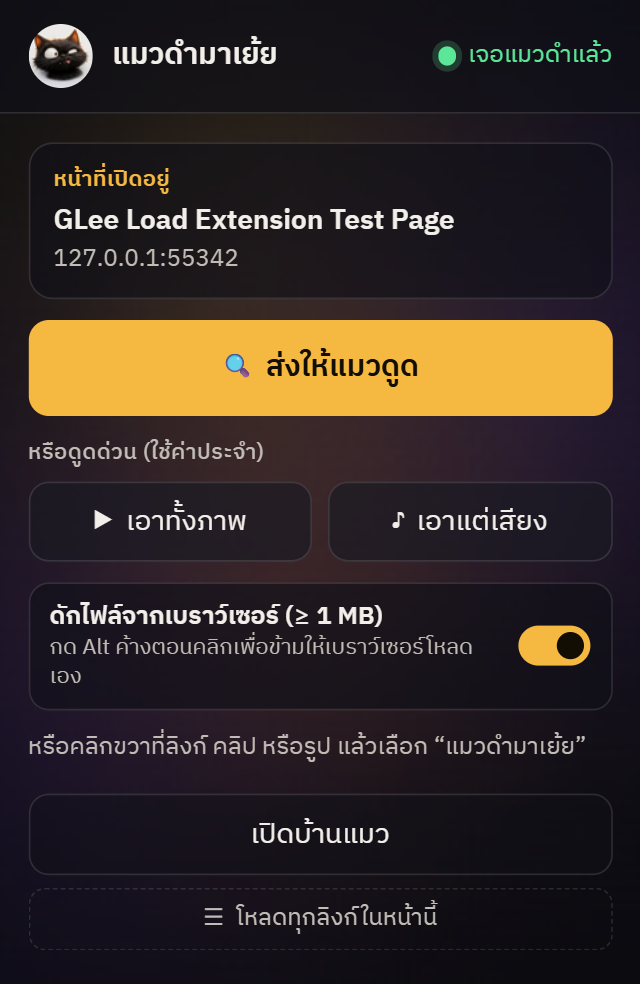
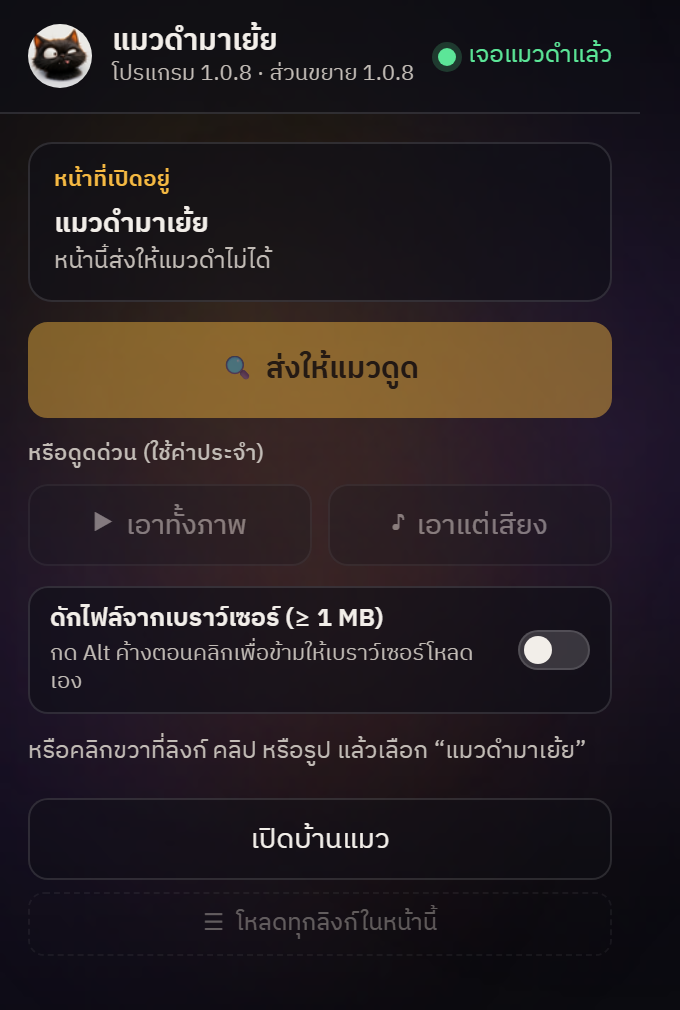
chore: publish GLee Load App 1.0.8 / Extension 1.0.8 update manifest & docs

diff --git a/README.md b/README.md
@@ -21,18 +21,18 @@
       <img src="images/icon-glee-load.png" alt="แมวดำมาเย้ย (GLee Load)" width="76" height="76" />
     </td>
     <td valign="top">
-      <h3>แมวดำมาเย้ย (GLee Load) — Windows (โปรแกรม 1.0.7 · ส่วนขยาย 2.0.7)</h3>
+      <h3>แมวดำมาเย้ย (GLee Load) — Windows (โปรแกรม 1.0.8 · ส่วนขยาย 1.0.8)</h3>
       <p>
-        โปรแกรมช่วยดาวน์โหลดไฟล์และคลิปโซเชียลความเร็วสูงบน Windows แบ่งหลายท่อน หยุดและโหลดต่อได้ จัดคิว ตั้งเวลา จำกัดความเร็ว รองรับไฟล์ใหญ่จาก Google Drive รวมตัวดึงคลิป (<code>yt-dlp</code> + <code>QuickJS-ng</code>), ตัวรวมภาพกับเสียงและตัดช่วง (<strong>FFmpeg รุ่น LGPLv3+ Shared DLL</strong>), เครื่องเล่นในตัวพื้นดำ, ปุ่มโหลดรูปปก, Suno และส่วนขยาย Chrome / Edge (<strong>ส่วนขยาย 2.0.7</strong>) ไว้ในไฟล์ติดตั้งเดียว ลงเสร็จโหลด YouTube และ Facebook Reels ได้ทันที (ไม่มีชิ้นส่วน GPL / AGPL)<br />
-        <em>Fast Windows multi-part download manager and media saver (<strong>App 1.0.7 · Extension 2.0.7</strong>) with pause/resume, queues, scheduler, speed limiter, Google Drive large-file handling, bundled clip/audio tools (<code>yt-dlp</code>, <code>QuickJS-ng</code>, <strong>LGPLv3+ shared FFmpeg</strong>), built-in media player, cover downloader, Suno support, clip trimmer, and Chrome / Edge <strong>Extension 2.0.7</strong> in one unified installer (zero GPL / AGPL).</em>
+        โปรแกรมช่วยดาวน์โหลดไฟล์และคลิปโซเชียลความเร็วสูงบน Windows แบ่งหลายท่อน หยุดและโหลดต่อได้ จัดคิว ตั้งเวลา จำกัดความเร็ว รองรับไฟล์ใหญ่จาก Google Drive รวมตัวดึงคลิป (<code>yt-dlp</code> + <code>QuickJS-ng</code>), ตัวรวมภาพกับเสียงและตัดช่วง (<strong>FFmpeg รุ่น LGPLv3+ Shared DLL</strong>), เครื่องเล่นในตัวพื้นดำ, ปุ่มโหลดรูปปก, Suno และส่วนขยาย Chrome / Edge (<strong>ส่วนขยาย 1.0.8</strong>) ไว้ในไฟล์ติดตั้งเดียว ลงเสร็จโหลด YouTube และ Facebook Reels ได้ทันที (ไม่มีชิ้นส่วน GPL / AGPL)<br />
+        <em>Fast Windows multi-part download manager and media saver (<strong>App 1.0.8 · Extension 1.0.8</strong>) with pause/resume, queues, scheduler, speed limiter, Google Drive large-file handling, bundled clip/audio tools (<code>yt-dlp</code>, <code>QuickJS-ng</code>, <strong>LGPLv3+ shared FFmpeg</strong>), built-in media player, cover downloader, Suno support, clip trimmer, and Chrome / Edge <strong>Extension 1.0.8</strong> in one unified installer (zero GPL / AGPL).</em>
       </p>
       <p>
-        <a href="https://github.com/G-Lee21/glee-download-extra/releases/download/load-v1.0.7/GLee-Load-1.0.7-Setup.exe">
-          <img src="images/badge-download.svg" alt="ดาวน์โหลด แมวดำมาเย้ย โปรแกรม 1.0.7 · ส่วนขยาย 2.0.7" height="28" />
+        <a href="https://github.com/G-Lee21/glee-download-extra/releases/download/load-v1.0.8/GLee-Load-1.0.8-Setup.exe">
+          <img src="images/badge-download.svg" alt="ดาวน์โหลด แมวดำมาเย้ย โปรแกรม 1.0.8 · ส่วนขยาย 1.0.8" height="28" />
         </a>
-        &nbsp;<strong>โปรแกรม 1.0.7 · ส่วนขยาย 2.0.7</strong>
+        &nbsp;<strong>โปรแกรม 1.0.8 · ส่วนขยาย 1.0.8</strong>
         &nbsp;<code>Windows 10 / 11 (64-bit)</code>
-        &nbsp;·&nbsp;<a href="https://github.com/G-Lee21/glee-download-extra/releases/tag/load-v1.0.7">รายละเอียด โปรแกรม 1.0.7 · ส่วนขยาย 2.0.7</a>
+        &nbsp;·&nbsp;<a href="https://github.com/G-Lee21/glee-download-extra/releases/tag/load-v1.0.8">รายละเอียด โปรแกรม 1.0.8 · ส่วนขยาย 1.0.8</a>
       </p>
       <details open>
         <summary><strong>ภาพหน้าจอ · Screenshots</strong></summary>
@@ -42,7 +42,7 @@
         <img src="images/screen-glee-load-106-ext.png" alt="ป๊อปอัปส่วนขยาย Chrome / Edge แมวดำมาเย้ย" width="320" />
       </details>
       <p>
-        <sub>รุ่นก่อนหน้า: <a href="https://github.com/G-Lee21/glee-download-extra/releases/tag/load-v1.0.6">โปรแกรม 1.0.6 · ส่วนขยาย 1.2.6</a> · กฎเลขรุ่นตั้งแต่โปรแกรม 1.0.7 เป็นต้นไป: โปรแกรม <code>1.0.x</code> คู่กับส่วนขยาย <code>2.0.x</code> โดยเลขตัวท้ายตรงกันเสมอ</sub>
+        <sub>รุ่นก่อนหน้า: <a href="https://github.com/G-Lee21/glee-download-extra/releases/tag/load-v1.0.7">โปรแกรม 1.0.7 · ส่วนขยาย 2.0.7</a> · กฎเลขรุ่นตั้งแต่โปรแกรม 1.0.8 เป็นต้นไป: โปรแกรมและส่วนขยายใช้เลขรุ่นเดียวกันเป๊ะทุกรุ่น (<code>1.0.x</code> คู่กับ <code>1.0.x</code>)</sub>
       </p>
     </td>
   </tr>
@@ -69,7 +69,7 @@
   </tr>
 </table>
 
-> **หมายเหตุ / Note:** ตัวติดตั้ง Windows `GLee-Load-1.0.7-Setup.exe` (**โปรแกรม 1.0.7 · ส่วนขยาย 2.0.7**) พร้อมดาวน์โหลดแล้วในหน้า [Releases](https://github.com/G-Lee21/glee-download-extra/releases) · ไฟล์ `.apk` สำหรับ Android จะเผยแพร่เร็ว ๆ นี้
+> **หมายเหตุ / Note:** ตัวติดตั้ง Windows `GLee-Load-1.0.8-Setup.exe` (**โปรแกรม 1.0.8 · ส่วนขยาย 1.0.8**) พร้อมดาวน์โหลดแล้วในหน้า [Releases](https://github.com/G-Lee21/glee-download-extra/releases) · ไฟล์ `.apk` สำหรับ Android จะเผยแพร่เร็ว ๆ นี้
 
 ---
 
@@ -85,11 +85,11 @@
 
 ## วิธีติดตั้ง · How to Install
 
-### แมวดำมาเย้ยสำหรับ Windows (`GLee-Load-1.0.7-Setup.exe` — โปรแกรม 1.0.7 · ส่วนขยาย 2.0.7) · Windows Unified Installer
-1. ดาวน์โหลดไฟล์ `GLee-Load-1.0.7-Setup.exe` จากหน้า [Releases](https://github.com/G-Lee21/glee-download-extra/releases/tag/load-v1.0.7)
+### แมวดำมาเย้ยสำหรับ Windows (`GLee-Load-1.0.8-Setup.exe` — โปรแกรม 1.0.8 · ส่วนขยาย 1.0.8) · Windows Unified Installer
+1. ดาวน์โหลดไฟล์ `GLee-Load-1.0.8-Setup.exe` จากหน้า [Releases](https://github.com/G-Lee21/glee-download-extra/releases/tag/load-v1.0.8)
 2. ดับเบิลคลิกไฟล์เพื่อเปิดหน้าตัวติดตั้งมาตรฐาน GLee แล้วกด **"ติดตั้ง" (Install)** *(หากขึ้น SmartScreen กด "ข้อมูลเพิ่มเติม" → "เรียกใช้ต่อไป")*
 3. ลงเสร็จแล้วกด **"เปิดเลย" (Launch)** — สามารถวางลิงก์ไฟล์ทั่วไป, Google Drive, YouTube หรือคลิปโซเชียลแล้วกด **"ส่งให้แมวดูด"** ได้ทันทีโดยไม่ต้องลงส่วนเสริมแยก
-4. **ส่วนขยาย Chrome / Edge (ส่วนขยาย 2.0.7):** เปิดแท็บ **"ตั้งนิสัยแมว"** → กดปุ่ม **"พกแมวขึ้น Chrome / Edge"** เพื่อเปิดแฟ้ม `ส่วนขยาย Chrome แมวดำมาเย้ย` จากนั้นเปิด `chrome://extensions` (หรือ `edge://extensions`) → เปิด **"โหมดนักพัฒนาซอฟต์แวร์"** → กด **"โหลดส่วนขยายที่แตกไฟล์แล้ว"** แล้วเลือกแฟ้มนั้น *(หากเคยลงรุ่นก่อนเช่น ส่วนขยาย 1.2.6 เพียงกดปุ่มรีโหลด ⟳ บนการ์ดส่วนขยายเพื่ออัปเดตเป็น ส่วนขยาย 2.0.7)*
+4. **ส่วนขยาย Chrome / Edge (ส่วนขยาย 1.0.8):** เปิดแท็บ **"ตั้งนิสัยแมว"** → กดปุ่ม **"พกแมวขึ้น Chrome / Edge"** เพื่อเปิดแฟ้มที่ติดตั้งพร้อมไฮไลต์แฟ้ม `ส่วนขยาย Chrome แมวดำมาเย้ย` (หรือคัดลอกที่อยู่เต็มจากหน้าตั้งนิสัยแมว) จากนั้นเปิด `chrome://extensions` (หรือ `edge://extensions`) → เปิด **"โหมดนักพัฒนาซอฟต์แวร์"** → กด **"โหลดส่วนขยายที่แตกไฟล์แล้ว"** แล้วเลือกแฟ้ม `ส่วนขยาย Chrome แมวดำมาเย้ย` *(หากเคยลงรุ่นก่อนเช่น ส่วนขยาย 2.0.7 หรือ ส่วนขยาย 1.2.6 เพียงกดปุ่มรีโหลด ⟳ บนการ์ดส่วนขยายเพื่ออัปเดตเป็น ส่วนขยาย 1.0.8)*
 
 ### แอปมือถือ Android (`*.apk`) · Android APK
 

diff --git a/CREDITS.md b/CREDITS.md
@@ -4,9 +4,9 @@
 
 ---
 
-## 1. แมวดำมาเย้ย (GLee Load — Windows ตัวติดตั้งเดียว) — โปรแกรม 1.0.7 · ส่วนขยาย 2.0.7
+## 1. แมวดำมาเย้ย (GLee Load — Windows ตัวติดตั้งเดียว) — โปรแกรม 1.0.8 · ส่วนขยาย 1.0.8
 
-ตรวจสอบไลบรารี Rust ครบทั้ง **160 ชิ้น** ในตัวแอป (`แมวดำมาเย้ย.exe`) และชิ้นส่วนใน **ต้นแบบตัวติดตั้ง `glee-installer-src v1.0.3`** (`GLee-Load-1.0.7-Setup.exe` / `GLeeUninstall.exe`) รวมถึงเครื่องมือสื่อในแฟ้ม `bin/` ฟอนต์ และไอคอนแล้ว: **0 GPL · 0 AGPL**
+ตรวจสอบไลบรารี Rust ครบทั้ง **160 ชิ้น** ในตัวแอป (`แมวดำมาเย้ย.exe`) และชิ้นส่วนใน **ต้นแบบตัวติดตั้ง `glee-installer-src v1.0.3`** (`GLee-Load-1.0.8-Setup.exe` / `GLeeUninstall.exe`) รวมถึงเครื่องมือสื่อในแฟ้ม `bin/` ฟอนต์ และไอคอนแล้ว: **0 GPL · 0 AGPL**
 
 | ชิ้นส่วน | รุ่น | เจ้าของ | สัญญาอนุญาต | แบบ | ต้นทาง |
 |---|---|---|---|---|---|
@@ -48,8 +48,8 @@
 ## วิธีขอซอร์สโค้ดของชิ้นส่วน LGPL / MPL · How to Obtain LGPL / MPL Source Code
 
 - **ภาษาไทย:**
-  - **แมวดำมาเย้ยสำหรับ Windows (โปรแกรม 1.0.7 · ส่วนขยาย 2.0.7):** แจกจ่าย **FFmpeg และ FFprobe รุ่น LGPLv3+ Shared Build** (`n9.0.2-61-gd59078794d-20261120`, คอมไพล์ด้วย `--enable-version3 --enable-shared` โดยไม่มี `--enable-gpl` และไม่มี `--enable-nonfree`) แยกเป็นไฟล์อิสระและ Shared DLL (`*.dll`) พร้อมไฟล์ข้อความใบอนุญาต `LICENSE-ffmpeg.txt` ใน `<แฟ้มติดตั้งโปรแกรม>\bin\` โดย **ไม่ได้แก้ไขซอร์สโค้ดต้นฉบับ** ผู้ใช้สามารถสลับเปลี่ยนไฟล์ DLL รุ่น LGPL ที่เข้ากันได้ด้วยตนเอง และดาวน์โหลดซอร์สโค้ดตรงรุ่นจาก https://ffmpeg.org/ และ https://github.com/BtbN/FFmpeg-Builds หรือขอรับชุดซอร์สโค้ดตรงรุ่นได้ภายในอย่างน้อย 3 ปีนับจากวันเผยแพร่ผ่านช่องทางอย่างเป็นทางการของ GLee
+  - **แมวดำมาเย้ยสำหรับ Windows (โปรแกรม 1.0.8 · ส่วนขยาย 1.0.8):** แจกจ่าย **FFmpeg และ FFprobe รุ่น LGPLv3+ Shared Build** (`n9.0.2-61-gd59078794d-20261120`, คอมไพล์ด้วย `--enable-version3 --enable-shared` โดยไม่มี `--enable-gpl` และไม่มี `--enable-nonfree`) แยกเป็นไฟล์อิสระและ Shared DLL (`*.dll`) พร้อมไฟล์ข้อความใบอนุญาต `LICENSE-ffmpeg.txt` ใน `<แฟ้มติดตั้งโปรแกรม>\bin\` โดย **ไม่ได้แก้ไขซอร์สโค้ดต้นฉบับ** ผู้ใช้สามารถสลับเปลี่ยนไฟล์ DLL รุ่น LGPL ที่เข้ากันได้ด้วยตนเอง และดาวน์โหลดซอร์สโค้ดตรงรุ่นจาก https://ffmpeg.org/ และ https://github.com/BtbN/FFmpeg-Builds หรือขอรับชุดซอร์สโค้ดตรงรุ่นได้ภายในอย่างน้อย 3 ปีนับจากวันเผยแพร่ผ่านช่องทางอย่างเป็นทางการของ GLee
   - **แอปมือถือ Android (`com.glee.maewdam`):** รุ่นปัจจุบัน **ไม่มีชิ้นส่วนภายใต้สัญญาอนุญาต LGPL** มีเพียง `certifi 2026.10.23` (MPL-2.0) ซึ่งใช้งานตามต้นฉบับโดยไม่ได้แก้ไข สามารถดูและดาวน์โหลดซอร์สโค้ดต้นทางได้โดยตรงที่ https://github.com/certifi/python-certifi
 - **English:**
-  - **GLee Load for Windows (App 1.0.7 · Extension 2.0.7):** Ships unmodified **FFmpeg / FFprobe LGPLv3+ Shared Build** (`n9.0.2-61-gd59078794d-20261120`, built with `--enable-version3 --enable-shared`, without `--enable-gpl` or `--enable-nonfree`) as standalone binaries and dynamically linked shared DLLs (`*.dll`) with `LICENSE-ffmpeg.txt` inside `<InstallDir>\bin\`, allowing users to inspect or replace the LGPL shared libraries freely. Exact corresponding source code is available at https://ffmpeg.org/ and https://github.com/BtbN/FFmpeg-Builds, and via written offer for at least three (3) years after release through GLee's official channel.
+  - **GLee Load for Windows (App 1.0.8 · Extension 1.0.8):** Ships unmodified **FFmpeg / FFprobe LGPLv3+ Shared Build** (`n9.0.2-61-gd59078794d-20261120`, built with `--enable-version3 --enable-shared`, without `--enable-gpl` or `--enable-nonfree`) as standalone binaries and dynamically linked shared DLLs (`*.dll`) with `LICENSE-ffmpeg.txt` inside `<InstallDir>\bin\`, allowing users to inspect or replace the LGPL shared libraries freely. Exact corresponding source code is available at https://ffmpeg.org/ and https://github.com/BtbN/FFmpeg-Builds, and via written offer for at least three (3) years after release through GLee's official channel.
   - **Android APK (`com.glee.maewdam`):** The current Android release does **not** include any LGPL-licensed components; the only file-level copyleft component is unmodified `certifi 2026.10.23` (MPL-2.0) at https://github.com/certifi/python-certifi.
